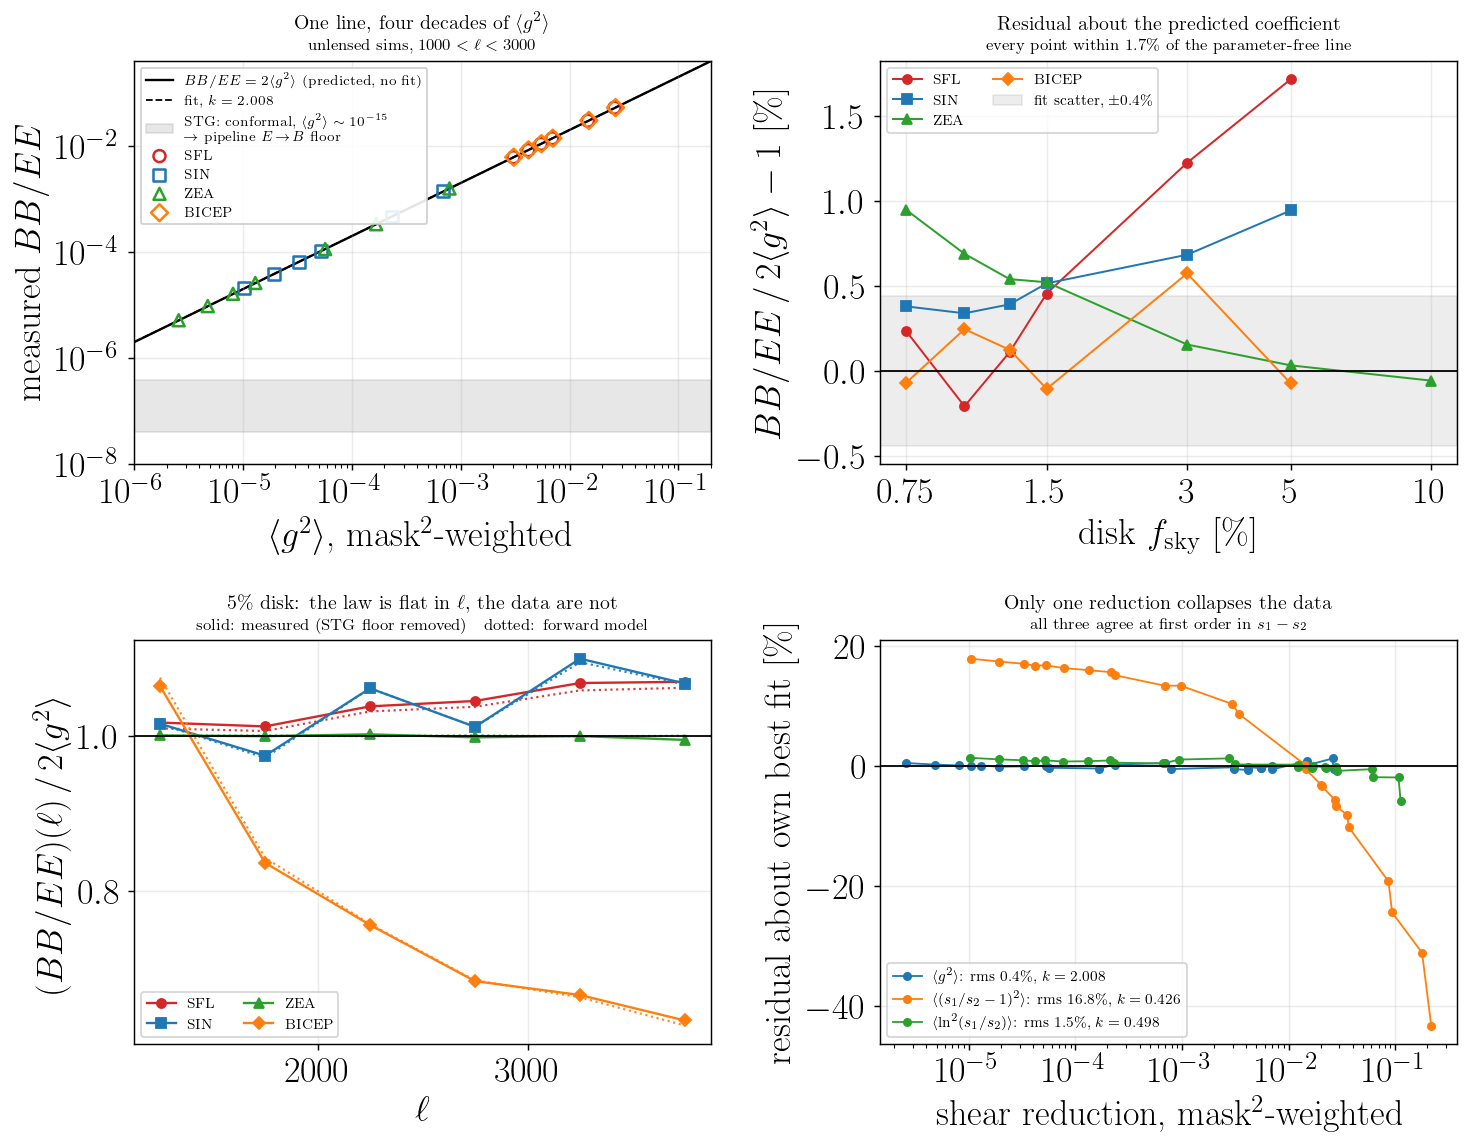
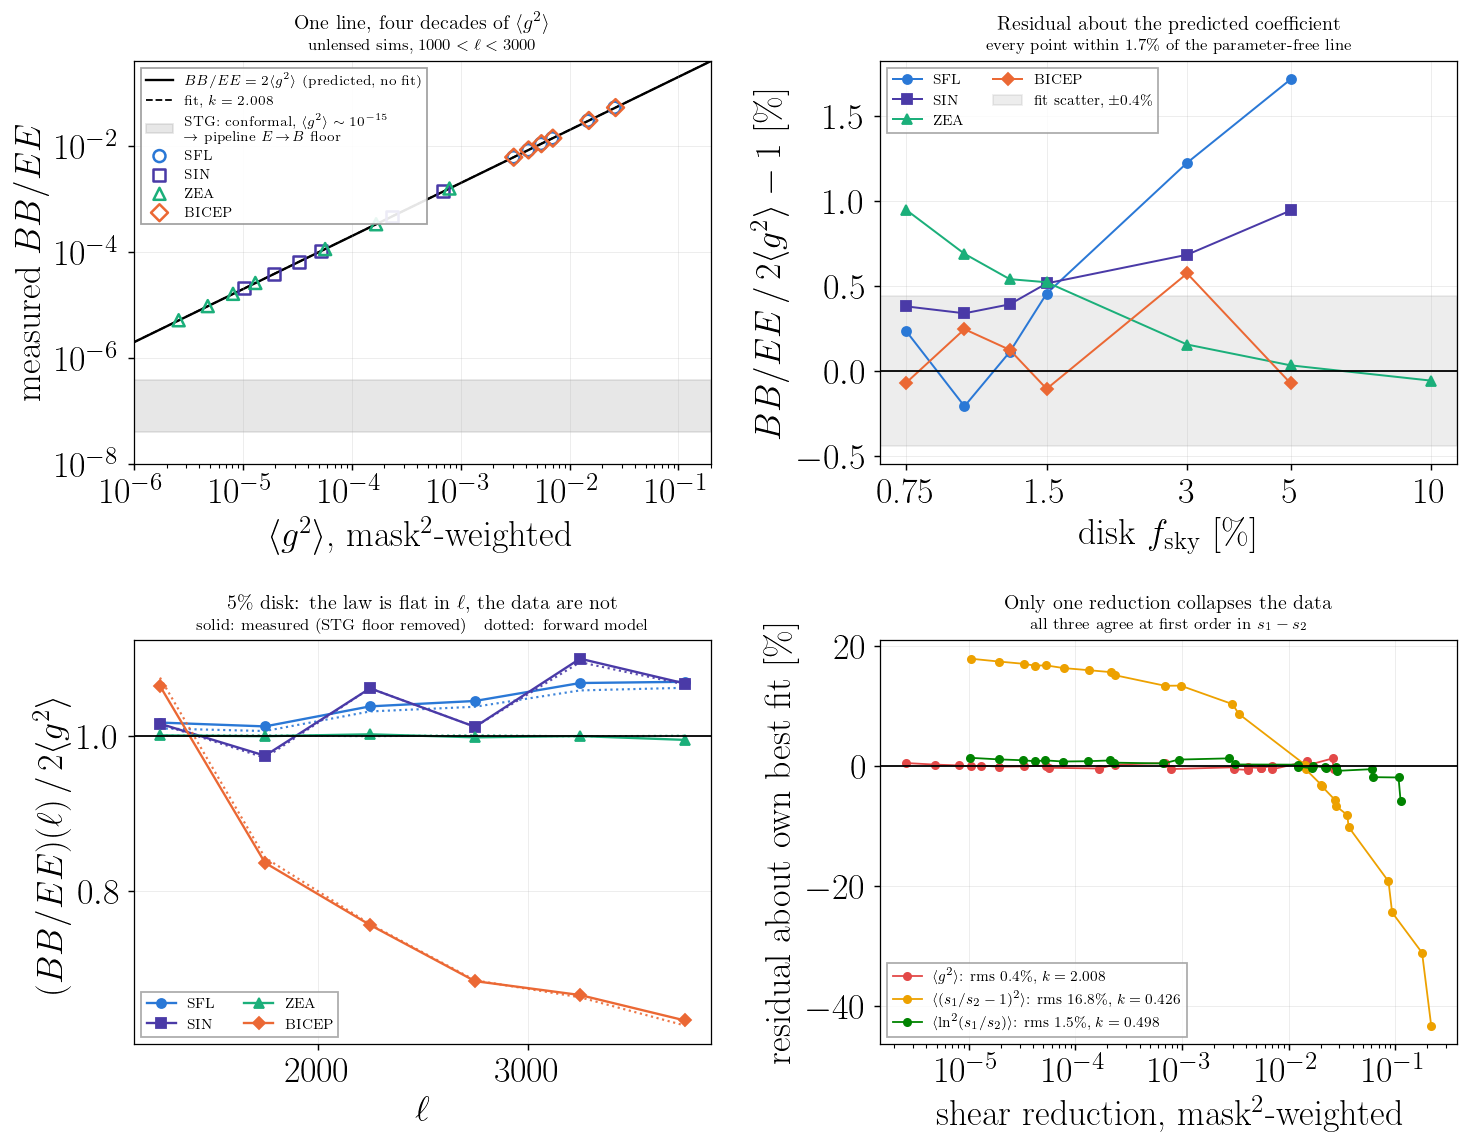
shear_leakage figure: validated palette, LaTeX typesetting
Swap the tab10 defaults for a colorblind-validated categorical palette
(dataviz skill), assigned in the paper's fixed projection order and held
identical across panels: SFL #2a78d6, SIN #4a3aa7, STG #7f7f7f (neutral,
never a scatter series), ZEA #1baf7a, BICEP #eb6834. Passes the all-pairs
CVD and normal-vision floors in light mode. The bottom-right panel's three
shear-reduction curves get their own validated triple (red/yellow/green)
since they're a different categorical dimension. Also switch to
text.usetex + serif to match the paper's other figures (plot_masks_figure,
plot_jacobian_invariants) instead of falling back on unrendered LaTeX
macros. No annotations added or removed; captions unaffected.

Claude-Session: https://claude.ai/code/session_01PZDBAP6S2rpqkakFu4WCgu

diff --git a/analysis/shear_leakage.py b/analysis/shear_leakage.py
@@ -732,11 +732,20 @@ def figure(mom, meas, pred, path=FIGURE):
     import matplotlib.pyplot as plt
 
     plt.rcParams.update({
-        "font.size": 10, "axes.grid": True, "grid.alpha": 0.25,
-        "figure.dpi": 130, "savefig.bbox": "tight",
+        "font.size": 10, "font.family": "serif", "text.usetex": True,
+        "axes.grid": True, "grid.alpha": 0.25, "grid.linewidth": 0.5,
+        "axes.linewidth": 0.7, "figure.dpi": 130, "savefig.bbox": "tight",
+        "legend.edgecolor": "0.6", "legend.fancybox": False,
     })
-    colors = {"ProjSFL": "#d62728", "ProjSIN": "#1f77b4", "ProjSTG": "#7f7f7f",
-              "ProjZEA": "#2ca02c", "ProjBICEP": "#ff7f0e"}
+    # Validated categorical palette (dataviz skill, references/palette.md),
+    # assigned in the paper's fixed projection order SFL, SIN, STG, ZEA,
+    # BICEP and held identical across every figure in the paper. STG never
+    # appears as a scatter series (it is the floor band only), so it takes a
+    # neutral gray rather than a fifth categorical slot -- the remaining
+    # four (blue/violet/aqua/orange) pass the all-pairs CVD and
+    # normal-vision floors together in light mode.
+    colors = {"ProjSFL": "#2a78d6", "ProjSIN": "#4a3aa7", "ProjSTG": "#7f7f7f",
+              "ProjZEA": "#1baf7a", "ProjBICEP": "#eb6834"}
     marks = {"ProjSFL": "o", "ProjSIN": "s", "ProjSTG": "x", "ProjZEA": "^",
              "ProjBICEP": "D"}
 
@@ -821,17 +830,20 @@ def figure(mom, meas, pred, path=FIGURE):
                  r"dotted: forward model", fontsize=11)
     ax.legend(fontsize=8, ncol=2)
 
-    # (d) which reduction collapses the data.
+    # (d) which reduction collapses the data. A different categorical
+    # dimension from (a)-(c) -- reductions, not projections -- so it draws
+    # from spare validated slots (red/blue/green) rather than reusing the
+    # projection identity.
     ax = axes[1, 1]
-    labels = {"g2": r"$\langle g^2 \rangle$",
-              "q2": r"$\langle (s_1/s_2-1)^2 \rangle$",
-              "lnq2": r"$\langle \ln^2 (s_1/s_2) \rangle$"}
-    for key, lab in labels.items():
+    labels = {"g2": (r"$\langle g^2 \rangle$", "#e34948"),
+              "q2": (r"$\langle (s_1/s_2-1)^2 \rangle$", "#eda100"),
+              "lnq2": (r"$\langle \ln^2 (s_1/s_2) \rangle$", "#008300")}
+    for key, (lab, col) in labels.items():
         xx = mom[key][keep]
         kk, _, _, _ = fit_constant(xx, band0[keep])
         r = band0[keep] / (kk * xx) - 1
         order = np.argsort(xx)
-        ax.plot(xx[order], 100 * r[order], "o-", ms=4, lw=1.0,
+        ax.plot(xx[order], 100 * r[order], "o-", ms=4, lw=1.0, color=col,
                 label=rf"{lab}: rms {100 * np.std(r):.1f}\%, "
                       rf"$k = {kk:.3f}$")
     ax.axhline(0, color="k", lw=1.0)
